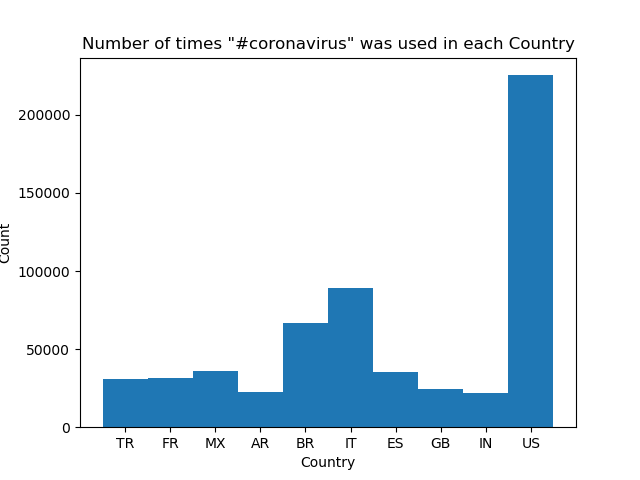
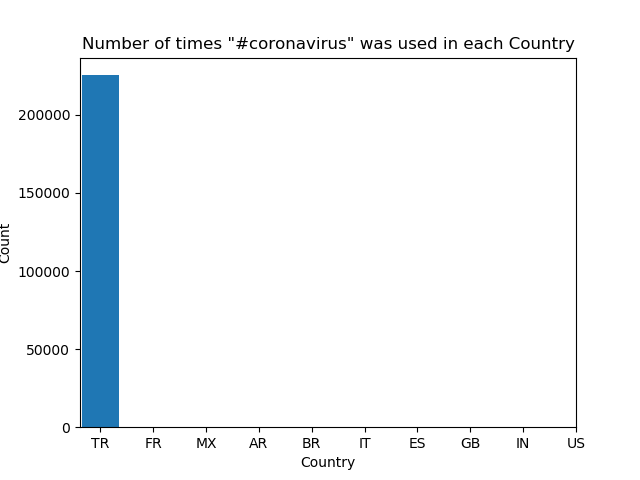
new

Changed region(s): [[0.125, 0.1562, 0.875, 0.9375], [0.875, 0.9062, 0.9062, 0.9375]]

diff --git a/src/visualize.py b/src/visualize.py
@@ -38,8 +38,13 @@ graphItems = sorted(sorted(counts[args.key].items(), key=lambda item: (item[1],i
         #[:10] returns first ten items
 
 graph_x, graph_y = [*zip(*graphItems)]
-plt.bar(graph_x[:11], graph_y[:11], width = 1)
-print(graph_x[3], graph_y)
+x_val = []
+y_val = []
+for x in graph_x:
+    x_val.append(x)
+for y in graph_y:
+    y_val.append(y)
+plt.bar(x, y, width = .7)
 
 x_label = "Language" if args.input_path == "reduced.lang" else  "Country" if args.input_path == "reduced.country" else ""
 key = args.key
